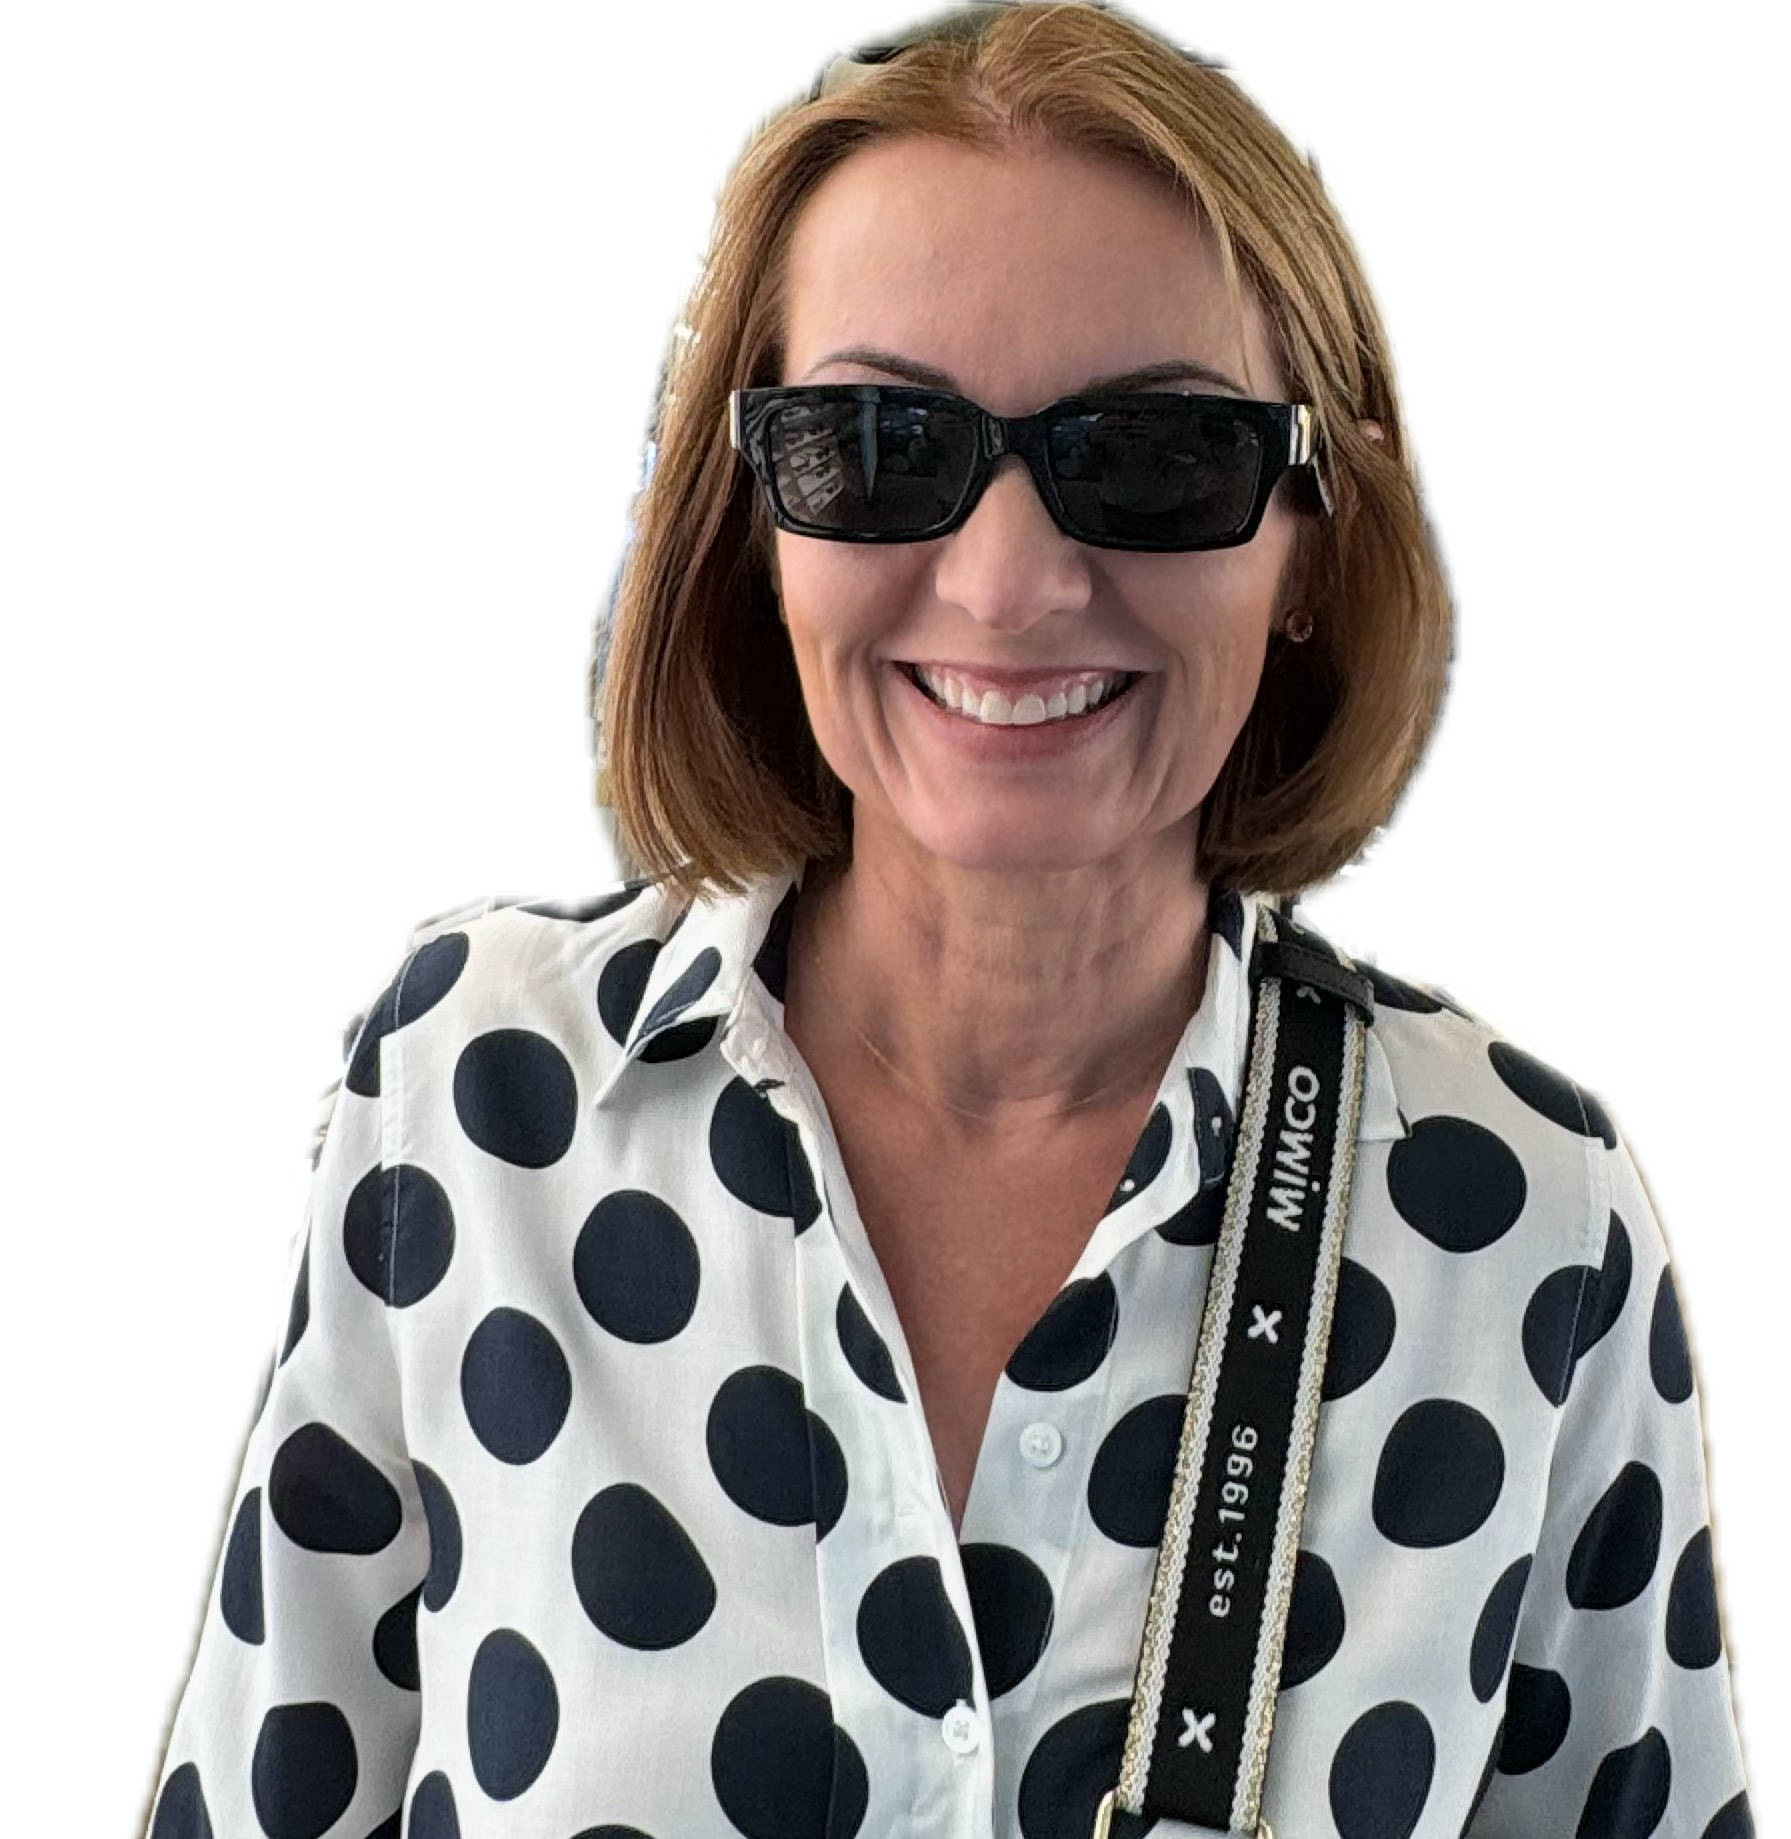
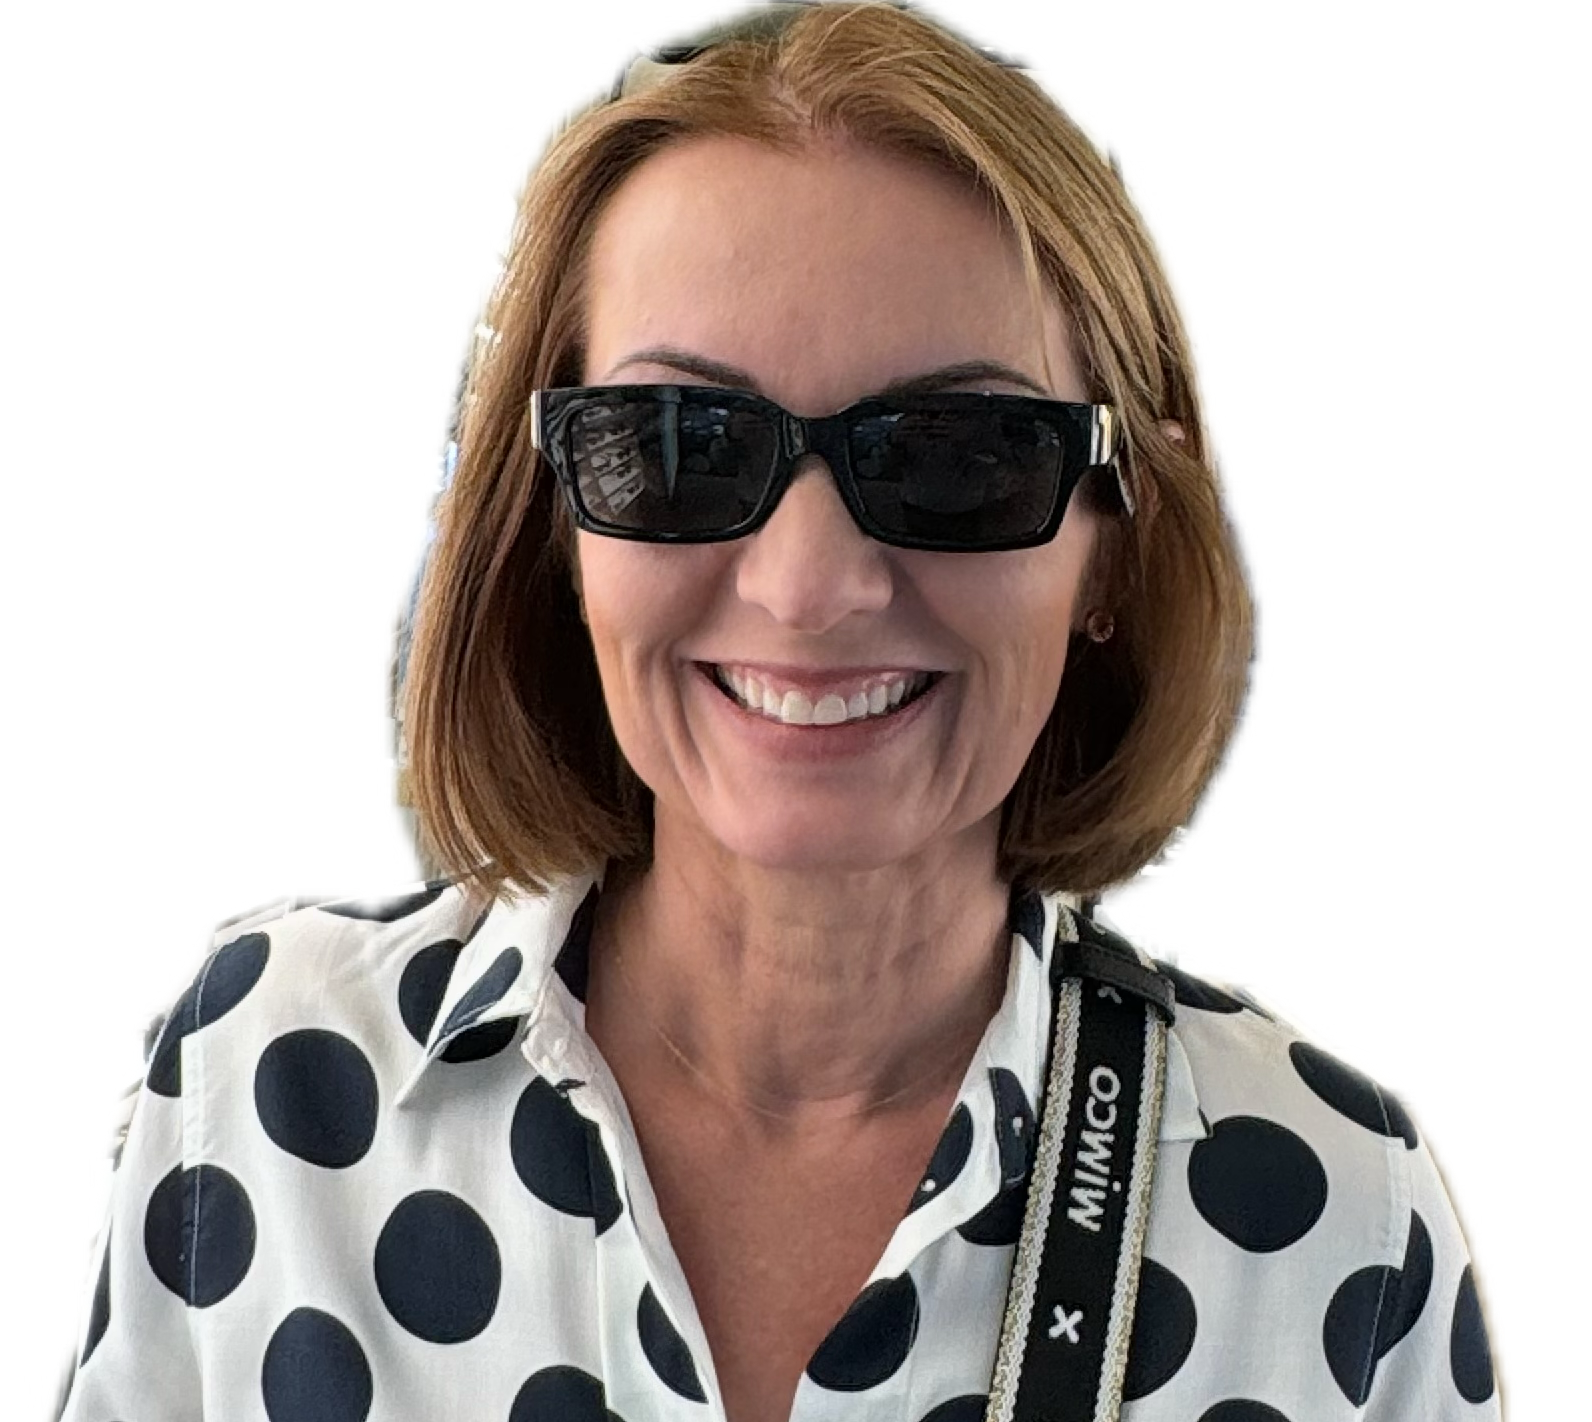
Feedback round 3.1

diff --git a/index.html b/index.html
@@ -87,7 +87,7 @@ body{
 @keyframes sealPulse{ 0%,100%{transform:scale(1)} 50%{transform:scale(1.05)} }
 .env-card-peek .inscription{
   position:absolute; top:58px; left:14px; right:14px; text-align:center;
-  font-family:'Cormorant Garamond',serif; font-style:italic; font-size:15.5px;
+  font-family:'Cormorant Garamond',serif; font-style:italic; font-size:18px;
   color:#7a5f33; letter-spacing:.03em; line-height:1.4;
 }
 .env-card-peek{
@@ -251,7 +251,7 @@ h1{
 .figure img{ width:100%; display:block; max-height:440px; object-fit:cover; object-position:center; }
 .figure figcaption{
   text-align:center; padding:12px 20px 0;
-  font-family:'Cormorant Garamond',serif; font-style:italic; font-size:14.5px; color:var(--mist);
+  font-family:'Cormorant Garamond',serif; font-style:italic; font-size:20px; color:var(--mist);
 }
 .figure.hidden{ display:none; }
 
@@ -403,7 +403,7 @@ footer{ text-align:center; padding:26px 20px 0; font-size:9.5px; letter-spacing:
 
     <div class="body-copy">
       <p>On the 12th of December 2026, Veronika reaches a grand milestone — her 60th birthday — and we intend to celebrate it in equally grand style: aboard Royal Caribbean's <span class="plain">Anthem of the Seas</span>, sailing the South Pacific.</p>
-      <p>The ship departs Sydney on the evening of <span class="plain">December 11th</span> and returns on the morning of <span class="plain">December 19th</span>, calling at Nouméa, Port Vila, and Mystery Island along the way — with Veronika's birthday itself celebrated at sea, which feels exactly right.</p>
+      <p>The ship departs Sydney on the evening of <span class="plain">December 11th</span> and returns on the morning of <span class="plain">December 19th</span>, calling at Nouméa, Port Vila, and Mystery Island along the way — with Veronika's birthday celebrated at sea, which feels exactly right.</p>
       <p>We would be delighted if you could join us. Beyond a few planned gatherings — a special birthday dinner among them — the days are yours: everyone does their own thing, and we gather as we wish.</p>
     </div>
 
@@ -434,24 +434,25 @@ footer{ text-align:center; padding:26px 20px 0; font-size:9.5px; letter-spacing:
       <figcaption>Veronika &amp; Mark</figcaption>
     </figure>
 
+    <div class="rsvp">
+      <h2 style="color:#8a6d3b;">RSVP</h2>
+      <p>Once you've made your decision, please RSVP by responding to this invitation email.</p>
+      <p>Questions? Reach out to either of us at anytime!</p>
+      <p class="soft">And of course — we'll completely understand if you're unable to join us.<br/>You'll be with us in spirit, and there will be photos. So many photos.</p>
+    </div>
+
     <div class="actions">
       <a class="btn primary" href="map/" >⚓ &nbsp;Explore the Voyage — Interactive Map</a>
       <div class="cruise-info-row">
         <button class="btn cruise-info-btn" id="cruiseInfoBtn" type="button" aria-expanded="false" aria-controls="cruiseInfoPop">Cruise Selection &amp; Booking — Royal Caribbean</button>
         <div class="cruise-info-pop" id="cruiseInfoPop" aria-label="How to find our sailing date">
           <img src="assets/booking-help.jpg" alt="Royal Caribbean booking page with the Dec 11 to Dec 19 date circled and marked: press there, love V" loading="lazy">
-          <p>When the page opens, look under "Available dates" and choose<br/><b style="font-style:normal;color:var(--gold)">Dec 11 – Dec 19, 2026</b> — that one's ours. ♥</p>
+          <p>When the page opens, look under "Available dates" and choose<br/><b style="font-style:normal;color:var(--gold)">Dec 11 – Dec 19, 2026</b> — this is the one! ♥</p>
+          <p>After you click on the box just below, be sure to click on the above box with the dates of the cruise for this event.</p>
           <a class="btn btn-sm" id="cruiseGoLink" href="https://www.royalcaribbean.com/aus/en/cruises?search=departurePort:SYD&amp;itineraryPanel=AN08SYD-395821314&amp;country=AUS&amp;icid=hp_tile2_intl&amp;market=aus&amp;language=en" target="_blank" rel="noopener">Cruise Selection &amp; Booking — Royal Caribbean</a>
         </div>
       </div>
       <a class="btn" href="https://www.royalcaribbean.com/aus/en/itinerary/8-night-south-pacific-cruise-from-sydney-on-anthem-AN08K121?sailDate=2026-12-11&amp;packageCode=AN08K121&amp;groupId=AN08SYD-395821314&amp;country=AUS" target="_blank" rel="noopener">About This Cruise · Current Discount Promotions</a>
-    </div>
-
-    <div class="rsvp">
-      <h2 style="color:#8a6d3b;">RSVP</h2>
-      <p>Once you've made your decision, please RSVP by responding to this invitation email.</p>
-      <p>Questions? Reach out to us at anytime!</p>
-      <p class="soft">And of course — we'll completely understand if you're unable to join us.<br/>You'll be with us in spirit, and there will be photos. So many photos.</p>
     </div>
 
     <div class="seascape">

diff --git a/email.html b/email.html
@@ -32,7 +32,7 @@
       <div style="font-family:Georgia,'Times New Roman',serif;font-style:italic;font-size:17px;color:#8aa4ad;padding-top:8px;">
         a South Pacific birthday voyage &middot; Anthem of the Seas
       </div>
-      <div style="font-family:Georgia,'Times New Roman',serif;font-size:12px;letter-spacing:4px;color:#d3ae6b;text-transform:uppercase;padding-top:16px;">
+      <div style="font-family:Georgia,'Times New Roman',serif;font-size:14px;letter-spacing:4px;color:#d3ae6b;text-transform:uppercase;padding-top:16px;">
         11 &ndash; 19 December 2026 &middot; Round trip from Sydney
       </div>
     </td></tr>
@@ -40,7 +40,7 @@
     <!-- Fallback link -->
     <tr><td align="center" style="padding:16px 12px 0;">
       <span style="font-family:Georgia,'Times New Roman',serif;font-style:italic;font-size:13px;color:#8aa4ad;">
-        If the envelope button is shy:&nbsp;
+        If the envelope button is shy click on this link:&nbsp;
         <a href="https://jameswomack.github.io/veronika-voyage/" target="_blank" style="color:#d3ae6b;">
           jameswomack.github.io/veronika-voyage
         </a>
